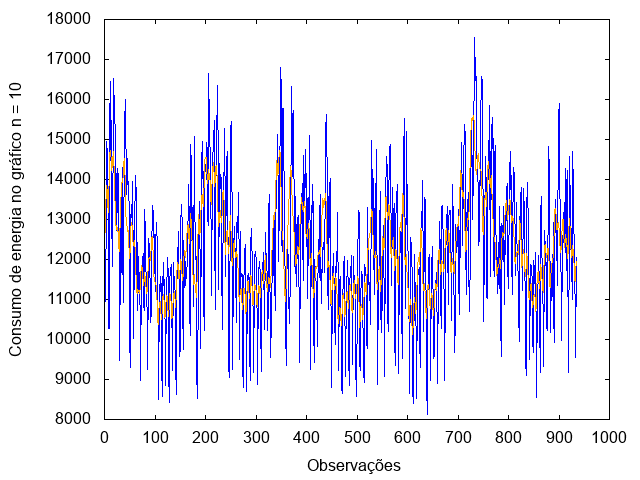
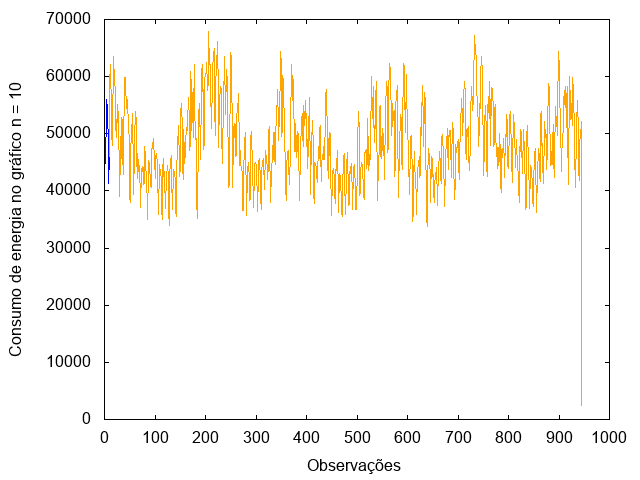
no message

diff --git a/2019-LAPR1_1DK_Mafia/src/pkg2019/lapr1_1dk_mafia/LAPR1_1DK_Mafia.java b/2019-LAPR1_1DK_Mafia/src/pkg2019/lapr1_1dk_mafia/LAPR1_1DK_Mafia.java
@@ -39,6 +39,8 @@ public class LAPR1_1DK_Mafia {
     static final int NUM_DAYS_IN_YEAR = 365;
     static final String OUTPUT_FILE = "Output.txt";
     static final String nome = "Consumos.csv";
+    final String agregacao = "";
+    
 
     public static void main(String[] args) throws FileNotFoundException {
         int[] consumptionMW = new int[MAX_OBSERVATIONS];
@@ -636,8 +638,9 @@ public class LAPR1_1DK_Mafia {
                 n = sc.nextInt();
             }
         }
-        double[] mediaMovelSimples = new double[size - n];
-        int total = 0, i;
+        double[] mediaMovelSimples = new double[size+1];
+        double total = 0.00;
+        int i;
         if (nonInteractiveInvalidInput == false) {
             for (i = n - 1; i <= size; i++) {
                 for (int j = i - n + 1; j <= i; j++) {
@@ -964,7 +967,7 @@ public class LAPR1_1DK_Mafia {
             tab1[i][0] = i;
             tab1[i][1] = grafico1[i];
         }
-        for (int i = 0; i < length - n + 1; i++) {
+        for (int i = n-1; i < length; i++) {
             tab2[i - n + 1][0] = i;
             tab2[i - n + 1][1] = grafico2[i];
         }
@@ -985,7 +988,7 @@ public class LAPR1_1DK_Mafia {
 
         System.out.println("Pretende gravar o gráfico? 1.PNG 2.CSV 3.PNG e CSV 4.Não");
         int op = sc.nextInt();
-//if(args.length==2){
+        //if(args.length==2){
         if (op != 1 && op != 2 && op != 3 && op != 4) {
             do {
                 System.out.println("Pretende gravar o gráfico? 1.PNG 2.CSV 3.PNG e CSV 4.Não");
